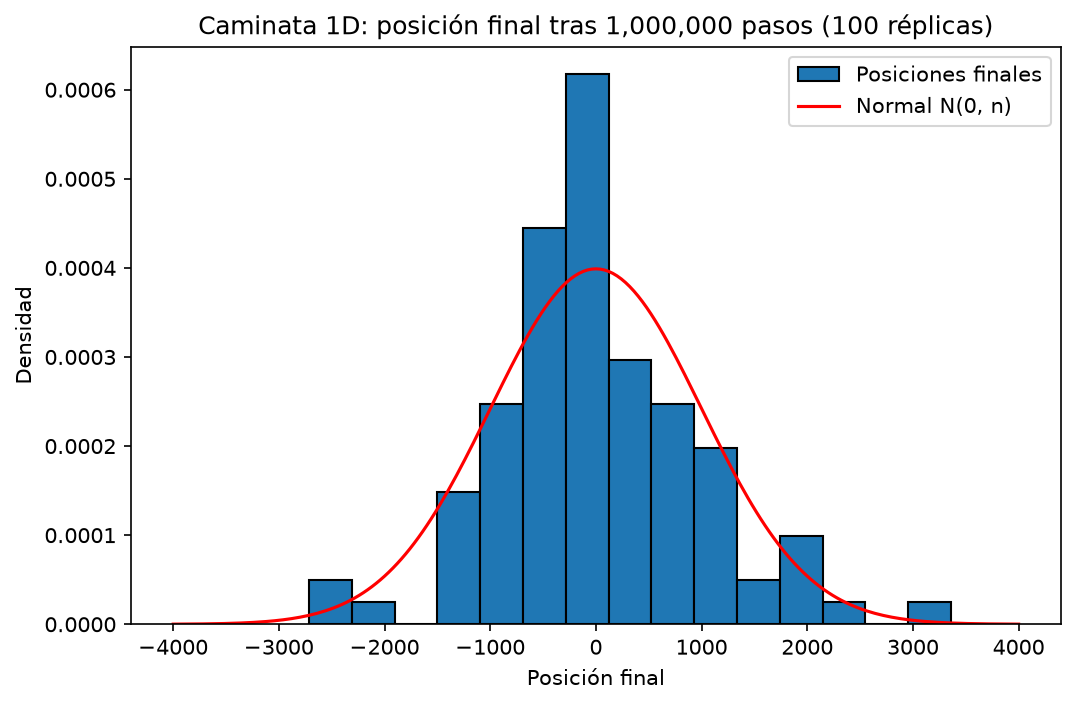
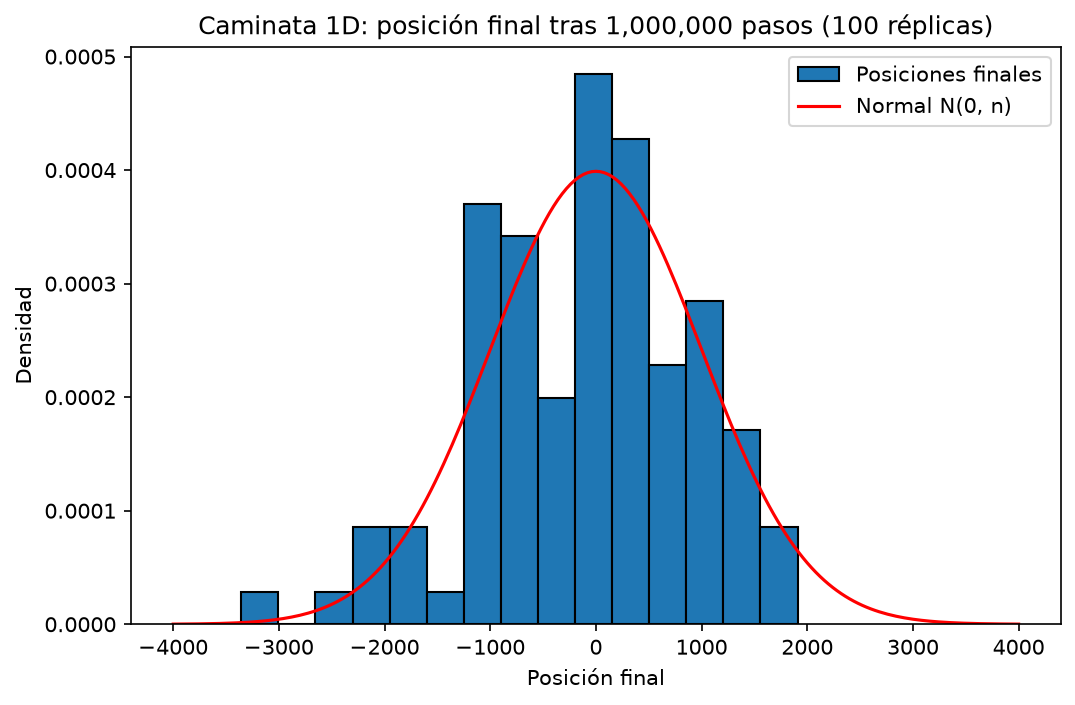
Punto 2: caminata aleatoria comentada, resultados y README

diff --git a/punto2_caminata_aleatoria/programa_principal.py b/punto2_caminata_aleatoria/programa_principal.py
@@ -13,42 +13,38 @@ from punto3_generadores_pseudoaleatorios import inicializacion
 
 PASOS = 1_000_000
 REPLICAS = 100
-SEMILLA_BASE = 12345           
-SALTO_ENTRE_SEMILLAS = 104729  
+SEMILLA_BASE = 12345   
+SEMILLAS = []          
 
 CARPETA_RESULTADOS = Path(__file__).parent / "resultados"
 ARCHIVO_SEMILLAS = Path(__file__).parent / "semillas_caminata.csv"
-ARCHIVO_CONTADOR = Path(__file__).parent / "contador_semillas.txt"
 
+# Dimensión -> función que simula una réplica
 FUNCIONES = {1: caminata.caminata_1d, 2: caminata.caminata_2d, 3: caminata.caminata_3d}
 
 
-def semilla_nueva(filas):
-    """Semilla generada con el congruencial multiplicativo del punto 3."""
-    contador = 0
-    if ARCHIVO_CONTADOR.exists():
-        contador = int(ARCHIVO_CONTADOR.read_text().strip() or 0)
-    contador += 1
-    ARCHIVO_CONTADOR.write_text(str(contador))
-    base = filas[0]["semilla"] if filas else 12345
-    secuencia = caminata.generadores.generar_congruencial_multiplicativo(
-        base, caminata.MULTIPLICADOR, caminata.MODULO, contador
-    )
-    return secuencia["valores_x"][-1]   
-
-
-def elegir_semilla():
-    filas, errores = inicializacion.leer_archivo_de_semillas(ARCHIVO_SEMILLAS)
-    for error in errores:
-        print("Aviso en el archivo de semillas:", error)
-    print("Semillas disponibles:")
-    for numero, fila in enumerate(filas, start=1):
-        print(f"  {numero}. {fila['semilla']}")
-    print("  0. Semilla nueva (generada con el congruencial del punto 3)")
-    opcion = input("Elija una opción: ").strip()
-    if opcion.isdigit() and 1 <= int(opcion) <= len(filas):
-        return filas[int(opcion) - 1]["semilla"]
-    return semilla_nueva(filas)
+def elegir_semillas():
+    """Menú de 2 opciones: las 100 semillas del CSV o una semilla tomada del reloj (time)."""
+    while True:
+        print("Origen de las semillas:")
+        print(f"  1. Las {REPLICAS} semillas del archivo semillas_caminata.csv")
+        print("  2. Semilla generada con la librería time (las réplicas se encadenan a partir de ella)")
+        opcion = input("Elija una opción (1 o 2): ").strip()
+        if opcion == "1":
+            filas, errores = inicializacion.leer_archivo_de_semillas(ARCHIVO_SEMILLAS)
+            for error in errores:
+                print("Aviso en el archivo de semillas:", error)
+            if len(filas) < REPLICAS:
+                print(f"El archivo tiene {len(filas)} semillas válidas y se necesitan {REPLICAS}.")
+                continue
+            # Solo se usa la columna semilla de las primeras REPLICAS filas
+            return [fila["semilla"] for fila in filas[:REPLICAS]]
+        if opcion == "2":
+            # Semilla base del reloj, reducida al rango [1, m - 1]
+            base = time.time_ns() % (caminata.MODULO - 1) + 1
+            print(f"Semilla por tiempo: {base}. Encadenando las {REPLICAS} semillas (unos segundos)...")
+            return caminata.encadenar_semillas(base, REPLICAS, PASOS)
+        print("Opción no válida.")
 
 
 def ejecutar_replicas(dimension):
@@ -57,28 +53,31 @@ def ejecutar_replicas(dimension):
     retornos = 0
     inicio = time.perf_counter()
     for i in range(REPLICAS):
-        semilla = SEMILLA_BASE + i * SALTO_ENTRE_SEMILLAS
-        posicion, retorno = funcion(semilla, PASOS)
+        # Cada réplica usa su propia semilla
+        posicion, retorno = funcion(SEMILLAS[i], PASOS)
         posiciones_finales.append(posicion)
         if retorno:
             retornos += 1
         print(f"  {dimension}D réplica {i + 1}/{REPLICAS}", end="\r")
     tiempo = time.perf_counter() - inicio
     print()
+    # Posiciones finales, probabilidad estimada de retorno y tiempo en segundos
     return posiciones_finales, retornos / REPLICAS, tiempo
 
 
 def medir_memoria(dimension):
+    # Pico de memoria (MB) de una sola réplica
     tracemalloc.start()
     FUNCIONES[dimension](SEMILLA_BASE, PASOS)
     _, pico = tracemalloc.get_traced_memory()
     tracemalloc.stop()
-    return pico / 1024 / 1024  
+    return pico / 1024 / 1024
 
 
 def graficar_histograma_1d(posiciones):
     valores = [p[0] for p in posiciones]
     media = sum(valores) / len(valores)
+    # Desviación muestral (n - 1) y proporción dentro de ±1σ, para compararlas con la teoría
     desviacion = math.sqrt(sum((v - media) ** 2 for v in valores) / (len(valores) - 1))
     dentro = sum(1 for v in valores if abs(v) <= math.sqrt(PASOS)) / len(valores)
     print(f"1D -> media = {media:.2f} (teórica 0), desviación = {desviacion:.2f} (teórica {math.sqrt(PASOS):.0f})")
@@ -86,6 +85,7 @@ def graficar_histograma_1d(posiciones):
 
     plt.figure(figsize=(8, 5))
     plt.hist(valores, bins=15, density=True, edgecolor="black", label="Posiciones finales")
+    # Densidad teórica N(0, n) entre -4σ y 4σ
     sigma = math.sqrt(PASOS)
     xs = [-4 * sigma + i * (8 * sigma) / 200 for i in range(201)]
     ys = [math.exp(-x * x / (2 * PASOS)) / math.sqrt(2 * math.pi * PASOS) for x in xs]
@@ -98,7 +98,24 @@ def graficar_histograma_1d(posiciones):
     plt.close()
 
 
+def graficar_trayectoria_1d():
+    # Trayectoria corta (10.000 pasos) con la semilla base
+    lista_x, _, _ = caminata.trayectoria(1, SEMILLA_BASE, 10000)
+    plt.figure(figsize=(9, 4.5))
+    plt.plot(range(len(lista_x)), lista_x, linewidth=0.6)
+    plt.axhline(0, color="gray", linestyle="--", linewidth=0.8)
+    plt.scatter([0], [0], color="green", zorder=3, label="Origen")
+    plt.scatter([len(lista_x) - 1], [lista_x[-1]], color="red", zorder=3, label="Final")
+    plt.title("Caminata 1D (10.000 pasos)")
+    plt.xlabel("Paso")
+    plt.ylabel("Posición de la rana")
+    plt.legend()
+    plt.savefig(CARPETA_RESULTADOS / "trayectoria_1d.png", dpi=150, bbox_inches="tight")
+    plt.close()
+
+
 def graficar_2d(posiciones):
+    # Figura 1: trayectoria de 10.000 pasos
     lista_x, lista_y, _ = caminata.trayectoria(2, SEMILLA_BASE, 10000)
     plt.figure(figsize=(6, 6))
     plt.plot(lista_x, lista_y, linewidth=0.5)
@@ -109,6 +126,7 @@ def graficar_2d(posiciones):
     plt.savefig(CARPETA_RESULTADOS / "trayectoria_2d.png", dpi=150, bbox_inches="tight")
     plt.close()
 
+    # Figura 2: dispersión de las posiciones finales
     plt.figure(figsize=(6, 6))
     plt.scatter([p[0] for p in posiciones], [p[1] for p in posiciones], s=15)
     plt.title(f"Posiciones finales 2D ({REPLICAS} réplicas)")
@@ -135,16 +153,22 @@ def graficar_3d():
 
 
 def main():
-    global SEMILLA_BASE
-    SEMILLA_BASE = elegir_semilla()
+    global SEMILLAS, SEMILLA_BASE
+    SEMILLAS = elegir_semillas()
+    SEMILLA_BASE = SEMILLAS[0]
     CARPETA_RESULTADOS.mkdir(exist_ok=True)
     print(f"Semilla base: {SEMILLA_BASE}")
-    (CARPETA_RESULTADOS / "semilla_usada.txt").write_text(f"Semilla base: {SEMILLA_BASE}\n")
+    # Se guardan las semillas para poder reproducir la corrida
+    (CARPETA_RESULTADOS / "semilla_usada.txt").write_text(
+        f"Semilla base: {SEMILLA_BASE}\nSemillas de las réplicas:\n" + "\n".join(str(s) for s in SEMILLAS) + "\n"
+    )
 
+    # Probabilidad exacta de retorno 1D: debe dar 0.5, 0.0 y 0.375
     print("Probabilidad exacta de retorno (1D):")
     for n in (2, 3, 4):
         print(f"  P(S_{n} = 0) = {caminata.probabilidad_exacta_retorno(n)}")
 
+    # Filas del cuadro de eficiencia: (dimensión, tiempo, memoria, probabilidad de retorno)
     tabla = []
     for dimension in (1, 2, 3):
         print(f"\nSimulando {dimension}D...")
@@ -153,6 +177,7 @@ def main():
         tabla.append((dimension, tiempo, memoria, prob_retorno))
         if dimension == 1:
             graficar_histograma_1d(posiciones)
+            graficar_trayectoria_1d()
         elif dimension == 2:
             graficar_2d(posiciones)
         else:

diff --git a/punto2_caminata_aleatoria/caminata.py b/punto2_caminata_aleatoria/caminata.py
@@ -1,14 +1,18 @@
 from punto3_generadores_pseudoaleatorios import generadores
 
+# Generador congruencial multiplicativo: X(i+1) = (16807 * X(i)) mod (2^31 - 1)
 MULTIPLICADOR = 16807
 MODULO = 2147483647
+# Hay retorno si la rana pasa por el origen en algún paso <= 1000
 PASOS_RETORNO = 1000
 
+# Desplazamientos (dx, dy, dz) con igual probabilidad; en 2D dz es siempre 0
 MOVIMIENTOS_2D = [(1, 0, 0), (-1, 0, 0), (0, 1, 0), (0, -1, 0)]
 MOVIMIENTOS_3D = [(1, 0, 0), (-1, 0, 0), (0, 1, 0), (0, -1, 0), (0, 0, 1), (0, 0, -1)]
 
 
 def generar_numeros(semilla, cantidad):
+    # Números R_i en [0, 1) del generador del Punto 3 (solo se usa numeros_r)
     secuencia = generadores.generar_congruencial_multiplicativo(semilla, MULTIPLICADOR, MODULO, cantidad)
     return secuencia["numeros_r"]
 
@@ -18,10 +22,12 @@ def caminata_1d(semilla, pasos):
     x = 0
     retorno = False
     for paso, r in enumerate(numeros, start=1):
+        # R < 0.5 -> +1, en otro caso -> -1 (probabilidad 1/2 cada uno)
         if r < 0.5:
             x += 1
         else:
             x -= 1
+        # Retorno acumulado: basta con que ocurra una vez en los primeros 1000 pasos
         if paso <= PASOS_RETORNO and x == 0:
             retorno = True
     return (x,), retorno
@@ -33,6 +39,7 @@ def caminata_2d(semilla, pasos):
     y = 0
     retorno = False
     for paso, r in enumerate(numeros, start=1):
+        # int(r * 4) elige una de las 4 direcciones
         dx, dy, dz = MOVIMIENTOS_2D[int(r * 4)]
         x += dx
         y += dy
@@ -48,6 +55,7 @@ def caminata_3d(semilla, pasos):
     z = 0
     retorno = False
     for paso, r in enumerate(numeros, start=1):
+        # int(r * 6) elige una de las 6 direcciones
         dx, dy, dz = MOVIMIENTOS_3D[int(r * 6)]
         x += dx
         y += dy
@@ -60,6 +68,13 @@ def caminata_3d(semilla, pasos):
 def trayectoria(dimension, semilla, pasos):
     """Devuelve las listas x, y, z de una caminata corta (para graficarla)."""
     numeros = generar_numeros(semilla, pasos)
+    # En 1D, y y z se devuelven como ceros para graficar con el mismo código
+    if dimension == 1:
+        lista_x = [0]
+        for r in numeros:
+            lista_x.append(lista_x[-1] + (1 if r < 0.5 else -1))
+        return lista_x, [0] * len(lista_x), [0] * len(lista_x)
+    # Se guarda todo el recorrido (usar solo con pocos pasos)
     movimientos = MOVIMIENTOS_2D if dimension == 2 else MOVIMIENTOS_3D
     x, y, z = 0, 0, 0
     lista_x, lista_y, lista_z = [0], [0], [0]
@@ -77,6 +92,20 @@ def trayectoria(dimension, semilla, pasos):
 def probabilidad_exacta_retorno(n):
     """P(S_n = 0) en 1D: C(n, n/2) / 2^n si n es par, 0 si es impar."""
     from math import comb
+    # Con n impar el retorno exacto es imposible
     if n % 2 == 1:
         return 0.0
     return comb(n, n // 2) / 2 ** n
+
+
+def encadenar_semillas(semilla_inicial, cantidad_de_semillas, pasos):
+    """Semillas de las réplicas: cada una arranca donde terminó la anterior
+    (último X_i tras `pasos` números), así ninguna réplica repite números de otra."""
+    semillas = [semilla_inicial]
+    x = semilla_inicial
+    for _ in range(cantidad_de_semillas - 1):
+        # Avanza el generador `pasos` veces: la semilla siguiente es el estado final de la réplica
+        for _ in range(pasos):
+            x = (MULTIPLICADOR * x) % MODULO
+        semillas.append(x)
+    return semillas

diff --git a/README.md b/README.md
@@ -7,4 +7,5 @@ Números pseudoaleatorios, caminatas aleatorias y método Montecarlo.
 
 | Carpeta | Contenido |
 |---------|-----------|
+| [`punto2_caminata_aleatoria/`](punto2_caminata_aleatoria/) | Simulación de caminatas aleatorias en 1D, 2D y 3D (la rana estadística) |
 | [`punto3_generadores_pseudoaleatorios/`](punto3_generadores_pseudoaleatorios/) | Generadores y validadores de números pseudoaleatorios |
